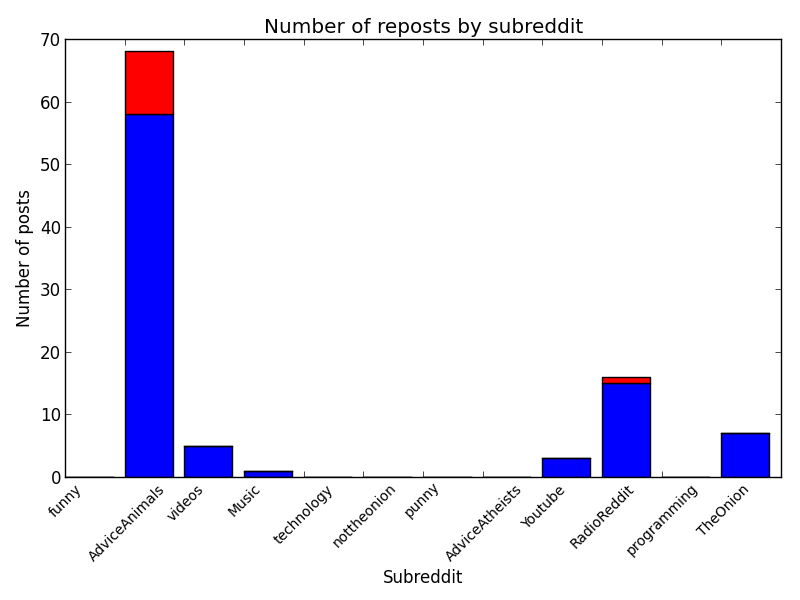
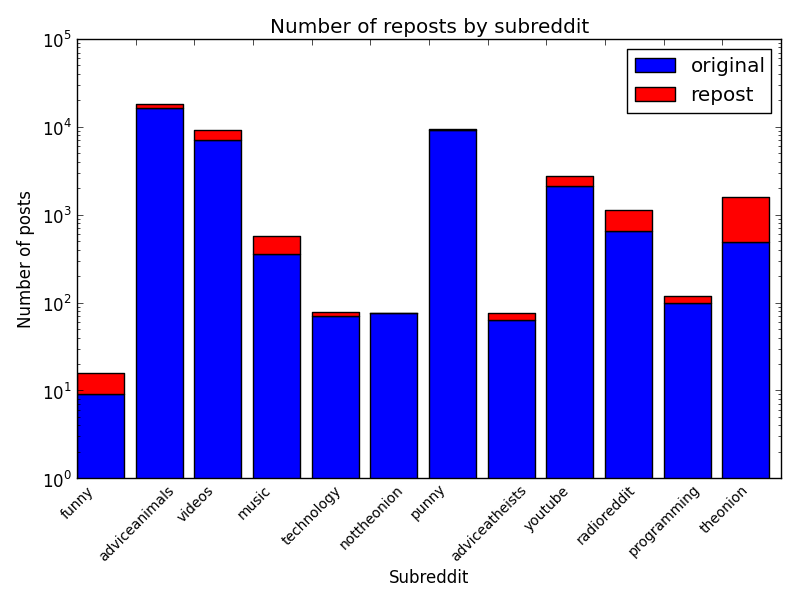
Updated repost script for filtered dataset

diff --git a/reposts_graph.py b/reposts_graph.py
@@ -2,15 +2,58 @@ __author__ = 'sn'
 import json
 from collections import Counter
 from matplotlib import pyplot
+import csv
 
 counts = {}
 with open('subreddits.list') as f:
     all_subreddits = f.readlines()
-    all_subreddits = [subreddit.strip() for subreddit in all_subreddits if subreddit.strip()]
+    all_subreddits = [subreddit.strip().lower() for subreddit in all_subreddits if subreddit.strip()]
     for subr in all_subreddits:
         views = { 'first' : 0, 'repost' : 0 }
         counts[subr] = views
 print counts
+with open('final_filtered.csv') as f:
+    reader = csv.reader(f)
+    for row in reader:
+        index, link, author, subreddit_link, created_time, score, json_info = row
+        created_time = float(created_time)
+        score = int(score)
+        post_subreddit = subreddit_link[24:-1].lower()
+        line = json.loads(json_info)
+        if len(line) > 0:
+            line.sort(key=lambda s: s[2])
+            original_author = line[0][0]
+            original_subreddit = line[0][1][24:-1].lower()
+            original_time = line[0][2]
+            if post_subreddit == original_subreddit and created_time == original_time and author == original_author :
+                counts[post_subreddit]['first'] += 1
+            else:
+                counts[post_subreddit]['repost'] += 1
+            #lengths.append(len([item for item in line if item[0] == original_author]))
+        else:
+            counts[post_subreddit]['first'] += 1
+
+    X = range(12)
+    repost = []
+    original = []
+    for k in counts:
+        repost.append(counts[k]['repost'])
+        original.append(counts[k]['first'])
+    print len(repost)
+    print original
+    a = pyplot.bar(X, original, color = 'b', log=True)
+    b = pyplot.bar(X, repost, color = 'r', bottom = original, log=True)
+    #pyplot.legend((repost[0], repost[1], ('repost','original'))
+    pyplot.xlabel('Subreddit')
+    pyplot.ylabel('Number of posts')
+    pyplot.title('Number of reposts by subreddit')
+    pyplot.xticks(X,all_subreddits, size='10', rotation=45)
+    pyplot.tight_layout(pad=1.2)
+    #pyplot.margins(0.9)
+    pyplot.legend([a[0],b[0]],['original','repost'])
+    pyplot.savefig('reposts' + '.png')
+
+'''
 with open('data2.csv', 'r') as f:
     lengths = []
     for line in f:
@@ -33,22 +76,5 @@ with open('data2.csv', 'r') as f:
         else:
             counts[post_subreddit]['first'] += 1
     print counts
-
-    X = range(12)
-    repost = []
-    original = []
-    for k in counts:
-        repost.append(counts[k]['repost'])
-        original.append(counts[k]['first'])
-    print len(repost)
-    print original
-    pyplot.bar(X, repost, color = 'b')
-    pyplot.bar(X, original, color = 'r', bottom = repost)
-    #pyplot.legend((repost[0], repost[1], ('repost','original'))
-    pyplot.xlabel('Subreddit')
-    pyplot.ylabel('Number of posts')
-    pyplot.title('Number of reposts by subreddit')
-    pyplot.xticks(X,all_subreddits, size='10', rotation=45)
-    pyplot.tight_layout(pad=1.2)
-    #pyplot.margins(0.9)
-    pyplot.savefig('reposts' + '.png')
+'''
+ 
